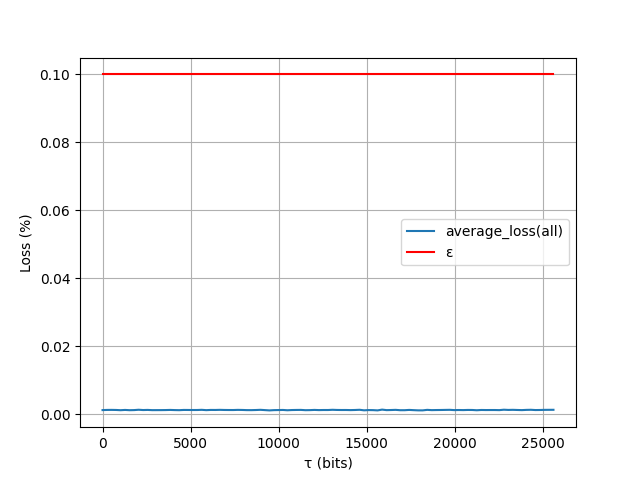
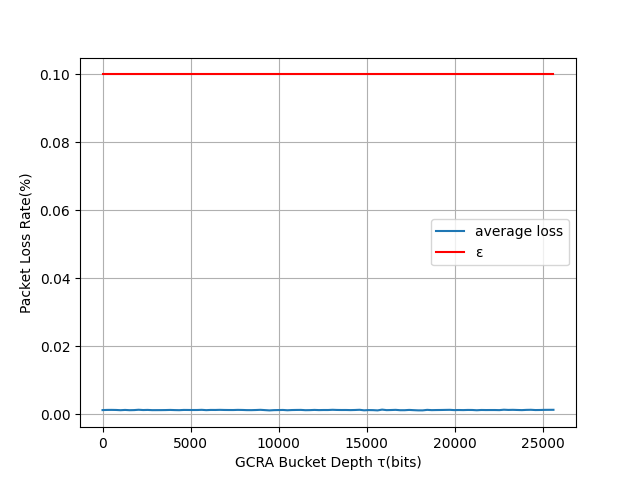
update uniform all compliant SLA chart

Changed region(s): [[0.375, 0.9375, 0.6562, 1.0], [0.625, 0.4688, 0.875, 0.5312], [0.0312, 0.375, 0.0625, 0.6562]]

diff --git a/Simulation/source/skript.c b/Simulation/source/skript.c
@@ -91,7 +91,7 @@ int main(int argc, char *argv[])
         config.traffic_mode = TRAFFIC_MODE_UNIFORM; ///< Set the traffic mode to uniform.
         modify_ini_file(configuration_path, &config);
 
-#ifdef NORMAL_MODE
+#ifndef APPEND_MODE
         // Prepare the data directory by removing existing data and creating new directories.
         sprintf(command, "rm -r %s", config.data_path);        ///< Command to remove the existing data directory.
         system(command);                                       ///< Execute the command.
@@ -101,6 +101,7 @@ int main(int argc, char *argv[])
         system(command);                                       ///< Execute the command.
 
         write_statistics_header_config(config, HEADER_TYPE_AVERAGE); ///< Write the header for statistics.
+#endif
 
         // Loop through tau values and execute the main program for each.
         for (long tau = 0; tau <= 25600; tau += step)
@@ -114,17 +115,7 @@ int main(int argc, char *argv[])
             sprintf(command, "python3 %s %s %s", PYTHON_AVERAGE_LOSS_CHART_PATH, name, configuration_path); ///< Command to run the Python script for data analysis.
             system(command);                                                                                ///< Execute the command.
         }
-#endif
-#ifdef VALIDATE_MODE
-        config.tau = default_tau; ///< Set the current tau value in the configuration.
-        config.upper_queue_buffer = 5;
-        // config.tenant_number = 1; // for FIFO queue validation
-        // config.link_queue_buffer = 10;
-        modify_ini_file(configuration_path, &config); ///< Update the INI file with the new tau value.
 
-        sprintf(command, "../execution/main %s 1", configuration_path); ///< Command to execute the main program.
-        system(command);                                                ///< Execute the command.
-#endif
         break;
     case UNIFORM_DISTRIBUTION_NONCOMPLIANT:
         strcpy(name, "uniform_half_noncompliant");                    ///< Set the name for the configuration.

diff --git a/Simulation/python/average_loss.py b/Simulation/python/average_loss.py
@@ -23,21 +23,21 @@ plt.title('Average Packet Loss with different τ ({})'.format(name))
 
 # plt.plot(tau, [float(config['simulation']['error'])*100 for i in tau], linestyle='-', color = 'red', label='ε')
 
-plt.xlabel('τ (bits)')
-plt.ylabel('Loss (%)')
+plt.xlabel('GCRA Bucket Depth τ(bits)')
+plt.ylabel('Packet Loss Rate(%)')
 plt.legend()
 plt.grid(True)
 
 plt.savefig(IMAGE_PATH.format(name, 'pure'))
 plt.cla()
 
-plt.plot(tau, average_loss_all, linestyle='-', label='average_loss(all)')
+plt.plot(tau, average_loss_all, linestyle='-', label='average loss')
 # plt.title('Average Packet Loss with different τ ({})'.format(name))
 
 plt.plot(tau, [float(config['simulation']['error'])*100 for i in tau], linestyle='-', color = 'red', label='ε')
 
-plt.xlabel('τ (bits)')
-plt.ylabel('Loss (%)')
+plt.xlabel('GCRA Bucket Depth τ(bits)')
+plt.ylabel('Packet Loss Rate(%)')
 plt.legend()
 plt.grid(True)
 
